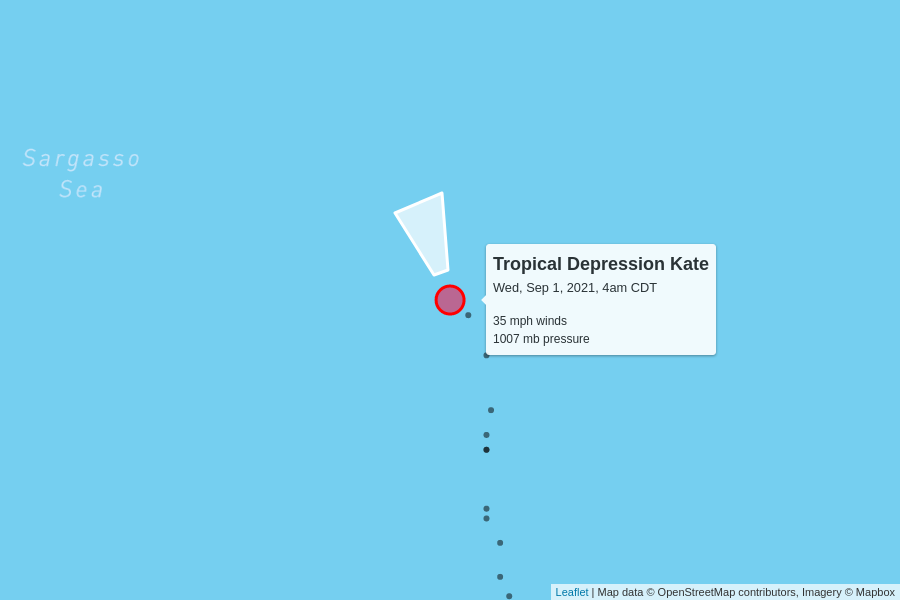
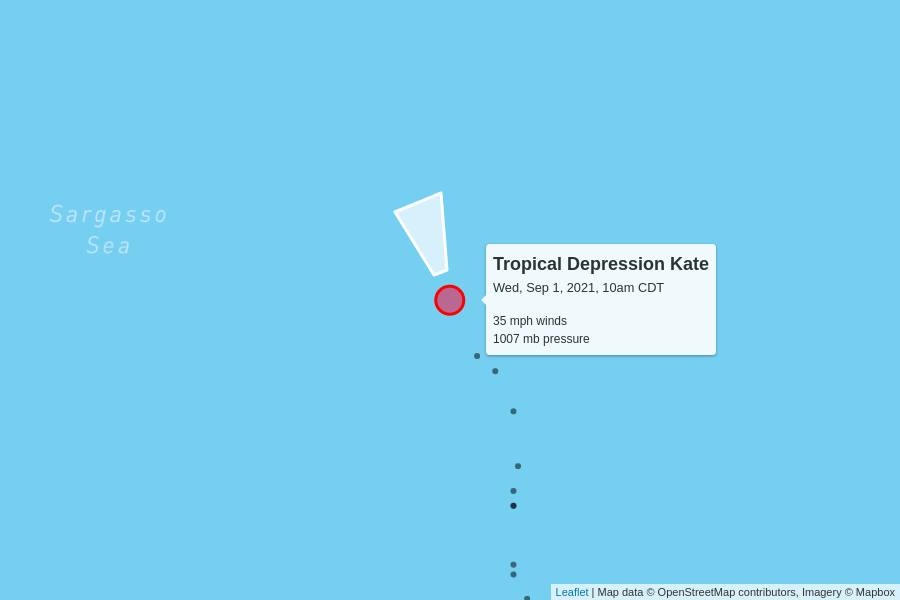
automatic update

diff --git a/docs/index.html b/docs/index.html
@@ -100,7 +100,7 @@
         <td colspan="6" class="storm category-0">
           <h2>
             Tropical Depression Kate
-            <p class="updated">last updated <span data-time>2021-09-01T09:00:00.000Z</span></p>
+            <p class="updated">last updated <span data-time>2021-09-01T15:00:00.000Z</span></p>
           </h2>
         </td>
       </tr>
@@ -118,7 +118,7 @@
         <td>35 mph</td>
         <td>1007 mb</td>
         <td>
-          9 mph to the north-northwest
+          12 mph to the north-northwest
           <br/>
           <span style="display: inline-block; font-size: 1.5em; transform: rotate(340deg);">↑</span>
         </td>
@@ -144,7 +144,7 @@
         <td colspan="6" class="storm category-0">
           <h2>
             Tropical Storm Larry
-            <p class="updated">last updated <span data-time>2021-09-01T09:00:00.000Z</span></p>
+            <p class="updated">last updated <span data-time>2021-09-01T15:00:00.000Z</span></p>
           </h2>
         </td>
       </tr>
@@ -159,12 +159,12 @@
       </tr>
       <tr>
         <td class="spacer"></td>
-        <td>45 mph</td>
-        <td>1003 mb</td>
+        <td>50 mph</td>
+        <td>1001 mb</td>
         <td>
-          20 mph to the west
+          22 mph to the west
           <br/>
-          <span style="display: inline-block; font-size: 1.5em; transform: rotate(280deg);">↑</span>
+          <span style="display: inline-block; font-size: 1.5em; transform: rotate(270deg);">↑</span>
         </td>
         <td><a href="https://raw.githubusercontent.com/mgwalker/atlantic-hurricanes/main/data/csv/AL122021.csv">AL122021.csv</a></td>
         <td><a href="https://www.nhc.noaa.gov/archive/2021/LARRY.shtml?">NHC advisories</a></td>
